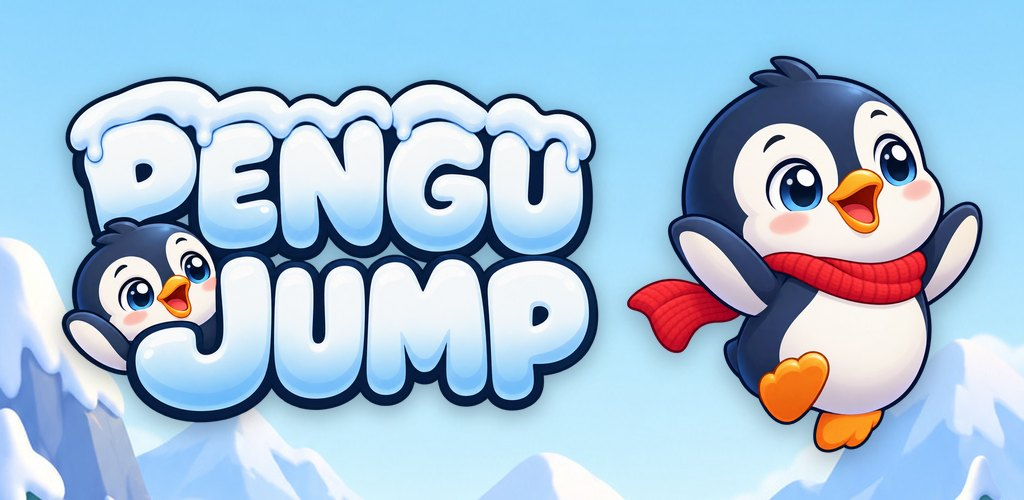
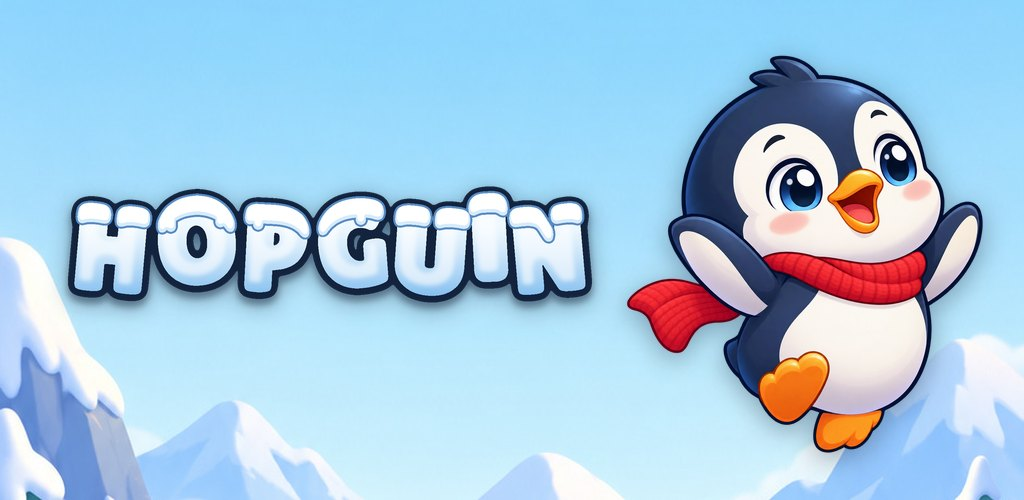
Add files via upload
ciao

Changed region(s): [[0.0312, 0.15, 0.5938, 0.87]]

diff --git a/privacy.html b/privacy.html
@@ -3,20 +3,20 @@
 <head>
   <meta charset="UTF-8">
   <meta name="viewport" content="width=device-width, initial-scale=1">
-  <title>Pengu Jump · Privacy Policy</title>
-  <meta name="description" content="How Pengu Jump handles your information.">
+  <title>Hopguin · Privacy Policy</title>
+  <meta name="description" content="How Hopguin handles your information.">
   <link rel="icon" type="image/png" href="icon.png">
   <link rel="stylesheet" href="style.css">
 </head>
 <body class="doc">
   <header class="bar">
-    <a href="./" class="brand"><img src="icon.png" alt="" width="36" height="36"> Pengu Jump</a>
+    <a href="./" class="brand"><img src="icon.png" alt="" width="36" height="36"> Hopguin</a>
   </header>
   <main class="page">
     <h1>Privacy Policy</h1>
     <p class="muted">Effective 8 October 2026</p>
 
-    <p>Pengu Jump is a game made by <strong>Aulonasoft</strong> (Italy). This page explains what
+    <p>Hopguin is a game made by <strong>Aulonasoft</strong> (Italy). This page explains what
       information the game uses, who receives it and the choices you have. If you have a question,
       write to <a href="mailto:aulonasoft@gmail.com">aulonasoft@gmail.com</a>.</p>
 
@@ -59,7 +59,7 @@
       and the <a href="https://policies.google.com/privacy">Google Privacy Policy</a>.</p>
 
     <h2>3. Purchases</h2>
-    <p>Purchases (Remove ads, Starter Pack, Golden Pengu) are processed by Google Play or the Apple
+    <p>The only purchase, Remove ads, is processed by Google Play or the Apple
       App Store. The game only receives confirmation of what you bought, so it can unlock it and
       restore it later. We never receive your name, card or other payment details.</p>
 
@@ -82,7 +82,7 @@
       will be updated first.</p>
 
     <h2>7. Children</h2>
-    <p>Pengu Jump is meant for players aged 13 and over and is not directed at children. We do not
+    <p>Hopguin is meant for players aged 13 and over and is not directed at children. We do not
       knowingly collect personal information from children.</p>
 
     <h2>8. Legal bases, transfers and how long information is kept</h2>
@@ -105,7 +105,7 @@
     <p>If this policy changes, we will update this page and the date at the top.</p>
   </main>
   <footer class="foot">
-    <a href="./">Pengu Jump</a> · <a href="mailto:aulonasoft@gmail.com">Contact</a>
+    <a href="./">Hopguin</a> · <a href="mailto:aulonasoft@gmail.com">Contact</a>
   </footer>
 </body>
 </html>

diff --git a/index.html b/index.html
@@ -3,18 +3,18 @@
 <head>
   <meta charset="UTF-8">
   <meta name="viewport" content="width=device-width, initial-scale=1">
-  <title>Pengu Jump · How high can you climb?</title>
-  <meta name="description" content="Tap to jump. Climb forever. A one-tap endless climbing game with a brave little penguin.">
-  <meta property="og:title" content="Pengu Jump">
-  <meta property="og:description" content="Tap to jump. Climb forever. How high can a little penguin go?">
+  <title>Hopguin · How high can you hop?</title>
+  <meta name="description" content="Tap to hop. Climb forever. A one-tap endless climbing game with a brave little penguin.">
+  <meta property="og:title" content="Hopguin">
+  <meta property="og:description" content="Tap to hop. Climb forever. How high can a little penguin go?">
   <meta property="og:image" content="feature.jpg">
   <link rel="icon" type="image/png" href="icon.png">
   <link rel="stylesheet" href="style.css">
 </head>
 <body class="home">
   <main class="hero">
-    <img class="logo" src="logo.png" alt="Pengu Jump" width="600" height="395">
-    <p class="tagline">Tap to jump. Climb forever.</p>
+    <img class="logo" src="logo.png" alt="Hopguin" width="600" height="147">
+    <p class="tagline">Tap to hop. Climb forever.</p>
     <img class="pengu" src="pengu.png" alt="" width="260" height="304">
     <p class="pitch">One tap is all it takes. Hop from ledge to ledge through six worlds, from snowy
       peaks to the edge of space, grab coins and power-ups, dodge birds and icicles, and race

diff --git a/style.css b/style.css
@@ -1,4 +1,4 @@
-/* Pengu Jump website: the game's sky blue and ink colours. */
+/* Hopguin website: the game's sky blue and ink colours. */
 :root {
   --sky-top: #4fb5fd;
   --sky-bottom: #dcebff;
